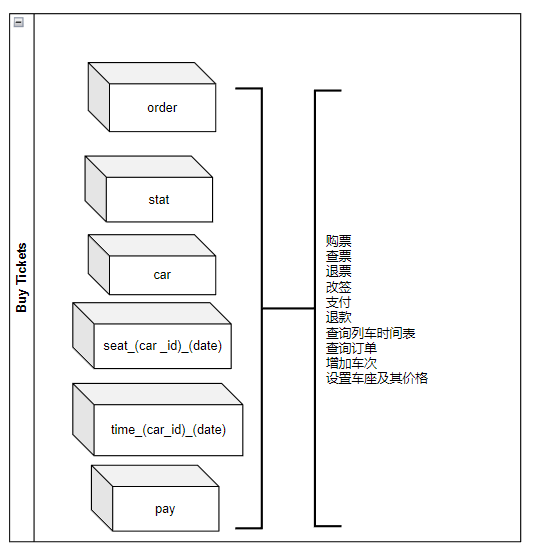
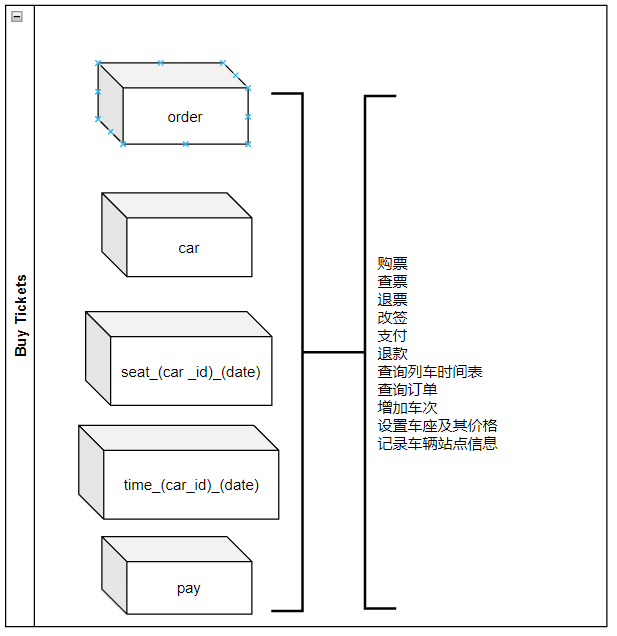
去除了没用的一个租金啊

Changed region(s): [[0.0, 0.0, 1.0, 1.0], [0.1484, 0.0921, 0.4156, 0.2455]]

diff --git a/car/src/main/java/com/review7872/car/CarApplication.java b/car/src/main/java/com/review7872/car/CarApplication.java
@@ -2,8 +2,12 @@ package com.review7872.car;
 
 import org.springframework.boot.SpringApplication;
 import org.springframework.boot.autoconfigure.SpringBootApplication;
+import org.springframework.cache.annotation.EnableCaching;
+import org.springframework.transaction.annotation.EnableTransactionManagement;
 
 @SpringBootApplication
+@EnableCaching
+@EnableTransactionManagement
 public class  CarApplication {
 
 	public static void main(String[] args) {

diff --git a/README.md b/README.md
@@ -16,11 +16,11 @@
 
 ## 1.编程语言
 
-	近年来，随着互联网的蓬勃发展，各大编程语言都以令人惊叹的速度迅猛发展。在这众多编程语言中，Java毫无疑问承载着沉甸甸的期望。Java凭借其完善的生态系统和简洁的语法，赢得了广泛的喜爱，不仅在服务端表现出色，也在移动端和PC端大放异彩。作为服务端主要编程语言，它在高并发项目无疑是得到了行业内人士的高度肯定，因此，我选择Java语言来完成12307项目。
+	近年来，随着互联网的蓬勃发展，各大编程语言都以令人惊叹的速度迅猛发展。在这众多编程语言中，Java毫无疑问承载着沉甸甸的期望。Java凭借其完善的生态系统和简洁的语法，赢得了广泛的喜爱，不仅在服务端表现出色，也在移动端和PC端大放异彩。作为服务端主要编程语言，它在高并发项目无疑是得到了行业内人士的高度肯定，因此，我们选择Java语言来完成12307项目。
 
 ## 2.微服务框架
 
-	大型互联网项目的尽头是微服务，但与编程语言不同的是，开源的微服务框架并不多，SpringCloud与Dubbo是我们为数不多的选择。Dubbo是阿里巴巴公司的一款RPC远程过程调用工具，集成与SpringCloud，但Dubbo从 3.0 开始已经不再与 Spring Cloud Alibaba 进行集成，Dubbo的日益壮大，使得它可以和SpringCloud平起平坐。SpringFramework诞生于2002年，在那个编程语言刚刚兴起的年代，Java语言的SpringFramework无疑是带给Java一个“春天”，使得Java在众多编程语言中优势更明显，多年来，Spring的发展越发势不可挡，之后更是推出了微服务解决方案——SpringCloud，而后来SpringCloud的开发依赖的更多的却是Netflix公司的库与工具，但是近些年来中国的阿里巴巴公司对SpringCloud代码贡献无疑是使得SpringCloud更方便使用，而SpringCloudAlibaba的诞生，无疑是又压Dubbo一头。我这个项目选择SpringCloudAlibaba为我们的微服务框架，使用阿里巴巴与Pivotal提供的完美微服务解决方案作为12307项目的“骨架”。
+	大型互联网项目的尽头是微服务，但与编程语言不同的是，开源的微服务框架并不多，SpringCloud与Dubbo是我们为数不多的选择。Dubbo是阿里巴巴公司的一款RPC远程过程调用工具，集成与SpringCloud，但Dubbo从 3.0 开始已经不再与 Spring Cloud Alibaba 进行集成，Dubbo的日益壮大，使得它可以和SpringCloud平起平坐。SpringFramework诞生于2002年，在那个编程语言刚刚兴起的年代，Java语言的SpringFramework无疑是带给Java一个“春天”，使得Java在众多编程语言中优势更明显，多年来，Spring的发展越发势不可挡，之后更是推出了微服务解决方案——SpringCloud，而后来SpringCloud的开发依赖的更多的却是Netflix公司的库与工具，但是近些年来中国的阿里巴巴公司对SpringCloud代码贡献无疑是使得SpringCloud更方便使用，而SpringCloudAlibaba的诞生，无疑是又压Dubbo一头。我们这个项目选择SpringCloudAlibaba为我们的微服务框架，使用阿里巴巴与Pivotal提供的完美微服务解决方案作为12307项目的“骨架”。
 
 ### 1.服务发现
 
@@ -68,7 +68,7 @@ Apache SkyWalking
 
 ## 6.其他选择
 
-	除了以上选择，我还使用了Java框架：MyBatis，前端库：ElementUI，web服务器：nginx，容器技术：Docker，以及Git版本控制工具、GitHub代码托管平台。
+	除了以上选择，我们还使用了Java框架：MyBatis，前端库：ElementUI，web服务器：nginx，容器技术：Docker，以及Git版本控制工具、GitHub代码托管平台。
 
 # 3.项目后端具体实现
 
@@ -118,11 +118,7 @@ https://github.com/Review7872/OnlineTicketSales.git
 
 	![](./images/img_22.png)
 
-	票务统计数据库：用于存储有关火车票销售和使用情况的数据，以便进行报表生成、分析和预测。这个数据库可以支持管理层决策和报告功能。
-
-![](./images/img_4.png)
-
-	短信通知数据库，我将对用户部分自主行为进行短信通知与记录。
+	短信通知数据库, 我们将对用户部分自主行为进行短信通知与记录。
 
 ![](./images/img_5.png)
 
@@ -139,8 +135,6 @@ https://github.com/Review7872/OnlineTicketSales.git
 ![](./images/img_10.png)
 
 ![](./images/img_11.png)
-
-![](./images/img_12.png)
 
 ![](./images/img_13.png)
 
